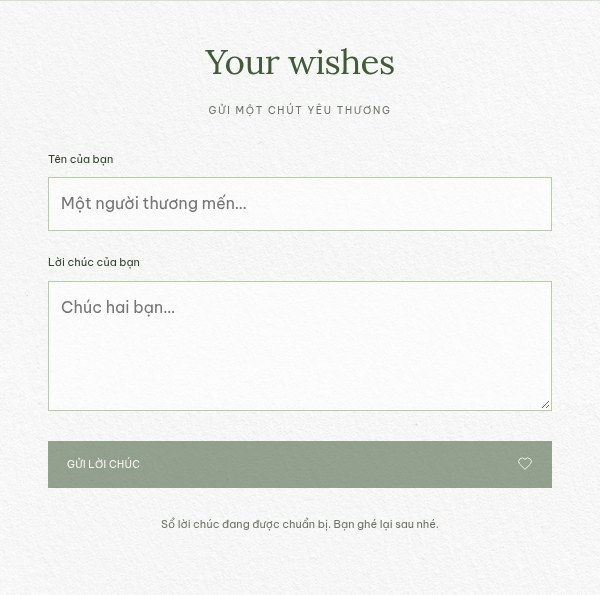
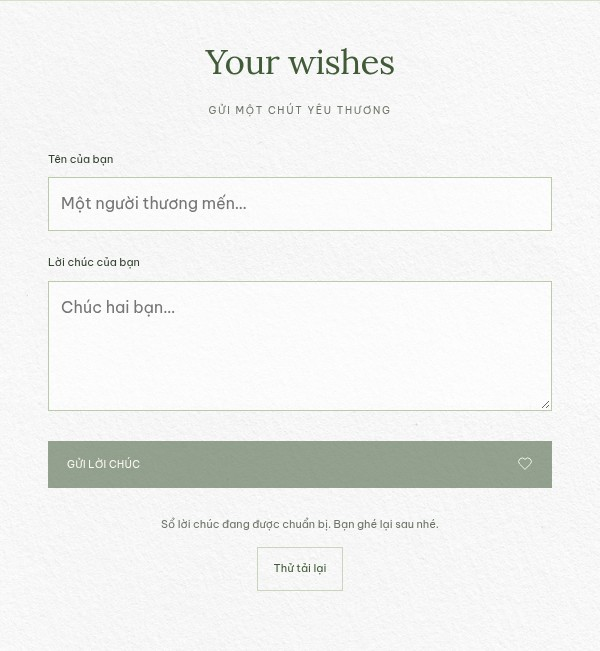
Load production Firebase Web config at build time and handle denied guestbook permissions

diff --git a/tests/guestbook.test.js b/tests/guestbook.test.js
@@ -13,7 +13,7 @@ async function setup(send = async () => {}) {
  const store = { send, subscribe(data, error) { reads++; onData = data; onError = error; return () => { unsubscribed++ } } }
  const controller = initGuestbook({ root: doc, connect: async () => store })
  await controller.ready
- return { dom, doc, controller, data: (...args) => onData(...args), error: () => onError(new Error('offline')), get reads() { return reads }, get unsubscribed() { return unsubscribed } }
+ return { dom, doc, controller, data: (...args) => onData(...args), error: code => onError(Object.assign(new Error('offline'), { code })), get reads() { return reads }, get unsubscribed() { return unsubscribed } }
 }
 function submit(app, name = 'Bạn Lan', message = 'Chúc hai bạn hạnh phúc!') {
  app.doc.querySelector('#wish-name').value = name
@@ -23,8 +23,10 @@ function submit(app, name = 'Bạn Lan', message = 'Chúc hai bạn hạnh phúc
 
 test('Firebase config requires the selected project and rejects demo projects in production', () => {
  assert.equal(readFirebaseConfig({}), null)
- const env = { VITE_FIREBASE_API_KEY: ' key ', VITE_FIREBASE_PROJECT_ID: 'demo-thang-quynh', VITE_FIREBASE_APP_ID: 'app' }
+ const env = { VITE_FIREBASE_API_KEY: ' key ', VITE_FIREBASE_PROJECT_ID: 'demo-thang-quynh', VITE_FIREBASE_APP_ID: 'app', VITE_FIREBASE_STORAGE_BUCKET: 'bucket', VITE_FIREBASE_MESSAGING_SENDER_ID: 'sender' }
  assert.equal(readFirebaseConfig(env).authDomain, 'demo-thang-quynh.firebaseapp.com')
+ assert.equal(readFirebaseConfig(env).storageBucket,'bucket')
+ assert.equal(readFirebaseConfig(env).messagingSenderId,'sender')
  assert.equal(readFirebaseConfig({ ...env, PROD: true }), null)
  assert.equal(readFirebaseConfig({ ...env, VITE_FIREBASE_PROJECT_ID: 'chosen-project', PROD: true }).projectId, 'chosen-project')
 })
@@ -85,4 +87,20 @@ test('a duplicate guest wish is explained without clearing their text', async ()
  assert.match(app.doc.querySelector('#wish-result').textContent, /Bạn đã gửi/)
  assert.equal(app.doc.querySelector('#wish-name').value, 'Bạn Lan')
  app.controller.destroy(); app.dom.window.close()
+})
+
+
+test('denied Firestore rules disable sending until a server-confirmed retry succeeds', async () => {
+ let writes=0
+ const app=await setup(async()=>{writes++})
+ app.error('permission-denied')
+ assert.equal(app.doc.querySelector('#wish-form button').disabled,true)
+ submit(app)
+ assert.equal(writes,0)
+ app.doc.querySelector('#retry-wishes').click()
+ app.data([],{fromCache:true})
+ assert.equal(app.doc.querySelector('#wish-form button').disabled,true)
+ app.data([],{fromCache:false})
+ assert.equal(app.doc.querySelector('#wish-form button').disabled,false)
+ app.controller.destroy();app.dom.window.close()
 })

diff --git a/src/guestbook.js b/src/guestbook.js
@@ -5,7 +5,7 @@ export function initGuestbook({ root = document, connect }) {
  const form = $('#wish-form'), button = form.querySelector('[type=submit]')
  const result = $('#wish-result'), status = $('#wishes-status'), list = $('#wishes'), retry = $('#retry-wishes')
  const label = $('#wish-submit-label')
- let store, unsubscribe, pending = false, destroyed = false, generation = 0
+ let store, unsubscribe, pending = false, permissionsBlocked = false, destroyed = false, generation = 0
  button.disabled = true
 
  function render(wishes) {
@@ -27,11 +27,14 @@ export function initGuestbook({ root = document, connect }) {
   list.setAttribute('aria-busy', 'true')
   unsubscribe = store.subscribe((wishes, { fromCache = false } = {}) => {
    render(wishes)
+   if (!fromCache) { permissionsBlocked = false; button.disabled = pending }
    list.setAttribute('aria-busy', String(fromCache))
    status.textContent = fromCache ? 'Đang kết nối để cập nhật lời chúc…' : wishes.length ? 'Những lời chúc dành cho chúng mình' : 'Hãy là người đầu tiên gửi lời chúc cho chúng mình nhé!'
-  }, () => {
+  }, error => {
    list.setAttribute('aria-busy', 'false')
-   status.textContent = 'Chưa tải được lời chúc. Bạn thử lại nhé.'
+   permissionsBlocked = error.code === 'permission-denied'
+   if (permissionsBlocked) button.disabled = true
+   status.textContent = permissionsBlocked ? 'Sổ lời chúc đang được chuẩn bị. Bạn ghé lại sau nhé.' : 'Chưa tải được lời chúc. Bạn thử lại nhé.'
    retry.hidden = false
   })
  }
@@ -52,7 +55,7 @@ export function initGuestbook({ root = document, connect }) {
  }
  async function submit(event) {
   event.preventDefault()
-  if (!store || pending) return
+  if (!store || pending || permissionsBlocked) return
   let wish
   try { wish = validateWish({ name: $('#wish-name').value, message: $('#wish-message').value }) }
   catch (error) { result.textContent = error.message; return }
@@ -71,7 +74,7 @@ export function initGuestbook({ root = document, connect }) {
   } finally {
    clearTimeout(waiting)
    pending = false
-   button.disabled = false
+   button.disabled = permissionsBlocked
    form.setAttribute('aria-busy', 'false')
    label.textContent = 'GỬI LỜI CHÚC'
   }

diff --git a/src/firebase-wishes.js b/src/firebase-wishes.js
@@ -7,6 +7,8 @@ export function readFirebaseConfig(env = {}) {
   projectId: value('VITE_FIREBASE_PROJECT_ID'),
   appId: value('VITE_FIREBASE_APP_ID'),
   authDomain: value('VITE_FIREBASE_AUTH_DOMAIN'),
+  storageBucket: value('VITE_FIREBASE_STORAGE_BUCKET'),
+  messagingSenderId: value('VITE_FIREBASE_MESSAGING_SENDER_ID'),
  }
  if (!config.apiKey || !config.projectId || !config.appId) return null
  if (env.PROD && config.projectId.startsWith('demo-')) return null

diff --git a/docs/firebase-setup.md b/docs/firebase-setup.md
@@ -1,28 +1,30 @@
 # Kết nối sổ lời chúc Firebase
 
-Phần lời chúc đã chuyển sang Firebase Authentication (Anonymous) và Cloud Firestore. Đã kiểm thử SDK thật với Firebase Emulator: gửi, lưu, cập nhật sang khách thứ hai, tải lại trang, chặn sửa/xoá và kiểm tra dữ liệu. **Chưa cấu hình project production và chưa triển khai rules lên Firebase thật.** Không tự dùng project của mẫu Ngọc–Thuỷ.
+Phần lời chúc đã chuyển sang Firebase Authentication (Anonymous) và Cloud Firestore. Đã kiểm thử SDK thật với Firebase Emulator: gửi, lưu, cập nhật sang khách thứ hai, tải lại trang, chặn sửa/xoá và kiểm tra dữ liệu. **Project production đã được chọn: `thang-quynh`, đầy đủ sáu trường Web config ở `.env.production`.** Anonymous Auth đã được kiểm tra thành công. Firestore hiện trả `PERMISSION_DENIED` cho cả truy vấn công khai và đã xác thực; cần publish rules trước khi khách gửi/đọc lời chúc thật. Không có phiên đăng nhập Firebase quản trị trong môi trường này để tự triển khai rules.
 
-## Cấu hình cần cung cấp
+## Cấu hình build đã áp dụng
 
 Từ Firebase Console → Project settings → Your apps → Web app, lấy `firebaseConfig` của project được chọn. Cần `apiKey`, `projectId`, `appId`; `authDomain` có thể suy ra từ project. Đây là cấu hình Web được Firebase thiết kế để dùng trong trình duyệt, không phải service account hay khoá quản trị.
 
-Ánh xạ vào build:
+Vite tự đọc `.env.production` ở chế độ build production. Cả sáu thông số chỉ nằm trong file cấu hình build; mã trong `src/` chỉ đọc biến môi trường, không hardcode giá trị. Kết nối GitHub hiện không có quyền sửa Actions Secrets/Variables, nên workflow sử dụng file build config này thay vì nhận các biến rỗng từ GitHub Settings.
 
-| Firebase Web config | Biến Vite / GitHub |
+| Firebase Web config | Biến build |
 | --- | --- |
-| apiKey | GitHub Secret `VITE_FIREBASE_API_KEY` |
-| projectId | GitHub Variable `VITE_FIREBASE_PROJECT_ID` |
-| appId | GitHub Variable `VITE_FIREBASE_APP_ID` |
-| authDomain | GitHub Variable `VITE_FIREBASE_AUTH_DOMAIN` (tuỳ chọn) |
+| apiKey | `VITE_FIREBASE_API_KEY` |
+| authDomain | `VITE_FIREBASE_AUTH_DOMAIN` |
+| projectId | `VITE_FIREBASE_PROJECT_ID` |
+| storageBucket | `VITE_FIREBASE_STORAGE_BUCKET` |
+| messagingSenderId | `VITE_FIREBASE_MESSAGING_SENDER_ID` |
+| appId | `VITE_FIREBASE_APP_ID` |
 
-Workflow Pages đã truyền các biến trên vào bước build. Local dùng `.env.local` theo `.env.example`. Không điền service-account JSON, private key hoặc token quản trị vào các biến `VITE_`.
+`.env.production` được version-control có chủ ý vì chứa **Firebase Web config công khai** vốn được nhúng trong JavaScript trình duyệt. Không chứa service account, private key hay token quản trị. File `.env.local` vẫn bị gitignore; có thể dùng cho override tại local. Cấu hình production không tự áp dụng cho Vite development hoặc các bài kiểm thử Emulator.
 
 Trong project được chọn:
 
 1. Tạo Cloud Firestore database `(default)` nếu chưa có.
 2. Bật Authentication → Sign-in method → Anonymous.
 3. Áp dụng match rule trong [firestore.rules](../firestore.rules).
-4. Điền Web config, build/deploy lại website.
+4. Web config đã sẵn sàng; sau khi publish rules, khách có thể bấm Thử tải lại hoặc tải lại trang để kết nối.
 
 **Nếu dùng chung project với thiệp khác:** gộp match `/weddings/thang-quynh-20261129/wishes/{guestId}` vào rules hiện có và giữ nguyên các match của thiệp cũ. Không thay toàn bộ rules của project chung bằng file dành riêng của repo này. Cần quyền Firebase Console/CLI của chủ project để triển khai rules; quyền push GitHub không cấp quyền Firebase.
 
@@ -47,3 +49,10 @@ npm run test:ui
 ```
 
 `test:firebase` cần Java 21; tự khởi động Auth/Firestore Emulator với project `demo-thang-quynh`. Gồm 5 bài rules và một luồng trình duyệt thật dùng hai browser context độc lập. Không truy cập hoặc ghi dữ liệu vào Firebase production. GitHub Actions chạy cả bộ kiểm thử trước khi triển khai Pages.
+
+## Kiểm tra project thật ngày 30/10/2026
+
+- Anonymous Auth: HTTP 200, tạo được phiên khách; tài khoản QA tạm được dọn sau kiểm tra, không viết lời chúc thử vào production.
+- Truy vấn 50 lời chúc trong collection đúng namespace: HTTP 403 `PERMISSION_DENIED / Missing or insufficient permissions`, ở cả trạng thái public và đã xác thực.
+- Cần chủ project mở [Firebase Console của thang-quynh](https://console.firebase.google.com/project/thang-quynh/firestore), tab Rules, áp dụng [firestore.rules](../firestore.rules) rồi Publish. Sau đó kiểm tra lại quyền đọc/gửi từ website.
+- Khi Firestore từ chối quyền, trang khóa nút gửi và giữ khả năng Thử tải lại. Không báo đã lưu thành công khi server chưa chấp nhận.

diff --git a/README.md b/README.md
@@ -45,12 +45,12 @@ Ngày, địa điểm và danh sách ảnh ở `src/content.js`. Tên, bố mẹ
 - Địa điểm: **Nhà văn hoá thôn 3 Công Đình - Phù Đổng - Hà Nội**. [Bản đồ](https://maps.app.goo.gl/ndNBkdF58QADRr4o6?g_st=ic). File lịch tải về dùng cùng địa điểm.
 - Lịch trình: **18:00 đón khách / 18:30 lễ thành hôn / 19:00 dùng tiệc**. Giờ mời trên thiệp, đếm ngược và file lịch là **18:00** theo cập nhật ngày 29/10/2026.
 - Đã bỏ phần xác nhận tham gia (RSVP). Nút nổi đưa khách tới phần gửi lời chúc.
-- Lời chúc dùng Firebase Auth Anonymous + Firestore, cập nhật trực tiếp cho các khách. Đã kiểm thử bằng Firebase Emulator. **Production đang chờ Web config, bật Anonymous Auth và áp dụng rules của project được chọn**; khi thiếu cấu hình, không nhận gửi và không báo lưu giả. Xem [hướng dẫn Firebase](docs/firebase-setup.md).
+- Lời chúc dùng Firebase Auth Anonymous + Firestore, cập nhật trực tiếp cho các khách. Đã kiểm thử bằng Firebase Emulator. **Production đã có Web config của project `thang-quynh` trong `.env.production`; Anonymous Auth đã hoạt động, đang chờ publish Firestore rules để đọc/gửi thật**; khi thiếu cấu hình hoặc bị Firestore từ chối quyền, không nhận gửi và không báo lưu giả. Xem [hướng dẫn Firebase](docs/firebase-setup.md).
 - Mừng cưới nhà trai: **Techcombank — 1905 0359 9540 16**. QR VietQR được sinh trong dự án, không đặt sẵn số tiền hay lời nhắn. Có sao chép số tài khoản và tải mã PNG. Chưa có thông tin nhà gái nên không hiển thị tài khoản nhà gái.
 
 ## Kiểm chứng và triển khai
 
-- **23 bài logic/DOM**: múi giờ, đếm ngược, lịch, ICS, lưu trữ bị chặn, album, trạng thái gửi/tải lời chúc an toàn, gate chống mở lặp và reduced motion.
+- **24 bài logic/DOM**: múi giờ, đếm ngược, lịch, ICS, lưu trữ bị chặn, album, trạng thái gửi/tải lời chúc an toàn, gate chống mở lặp và reduced motion.
 - **20 bài Chromium**: bảy viewport từ 320px đến 1920px, phong bì/mở thiệp, trang 1–2 và loại bỏ Our Story, album, phím điều hướng, tải lịch, nhạc, loại bỏ RSVP, ảnh số 8 trước lịch và lời chúc chưa cấu hình.
 - **5 bài Firestore Rules + 1 luồng Firebase trong Chromium**: xác thực, quyền đọc/ghi, dữ liệu hợp lệ, namespace riêng; gửi từ một khách, khách thứ hai nhận trực tiếp và vẫn thấy khi tải lại.
 - Xem [biên bản và ảnh giao diện](docs/visual-review.md).
@@ -90,4 +90,8 @@ Album có một ảnh dọc lớn tỉ lệ 2:3, hiển thị trọn ảnh với
 
 ## Cập nhật ngày 30/10/2026
 
-Ảnh ngang số 8 nằm ngay trước phần lịch Save the date (sau Timeline). Album vẫn dọc 2:3, thứ tự mới: 4 → 11 → 17 → 3 → 6 → 10 → 12. Không còn form xác nhận tham gia. Sổ lời chúc dùng collection Firebase riêng; xem [cấu hình và quy tắc dữ liệu](docs/firebase-setup.md). Tổng 49 bài kiểm thử đã đạt tại local: 23 unit/DOM, 20 UI, 5 rules, 1 UI Firebase.
+Ảnh ngang số 8 nằm ngay trước phần lịch Save the date (sau Timeline). Album vẫn dọc 2:3, thứ tự mới: 4 → 11 → 17 → 3 → 6 → 10 → 12. Không còn form xác nhận tham gia. Sổ lời chúc dùng collection Firebase riêng; xem [cấu hình và quy tắc dữ liệu](docs/firebase-setup.md). Tổng 50 bài kiểm thử: 24 unit/DOM, 20 UI, 5 rules, 1 UI Firebase.
+
+## Firebase production build
+
+Cả sáu trường Firebase Web config được cung cấp ngày 30/10 nằm trong `.env.production`, Vite đọc khi `npm run build`. Mã ứng dụng lấy giá trị từ `import.meta.env`; không có giá trị Firebase được hardcode trong `src/`. Auth Anonymous của project `thang-quynh` đã hoạt động. Firestore vẫn trả permission-denied; cần chủ project Publish rules đã chuẩn bị, xem [hướng dẫn](docs/firebase-setup.md).

diff --git a/docs/visual-review.md b/docs/visual-review.md
@@ -13,7 +13,7 @@ Tham chiếu bố cục: https://jmiiwedding.com/chinhlinhh. Tông trắng xanh 
 
 ## Kiểm thử
 
-- **23/23 logic/DOM** đạt.
+- **24/24 logic/DOM** đạt.
 - **20/20 Chromium** đạt, gồm bảy viewport: 320×740, 375×812, 390×844, 430×932, 768×1024, 1440×900, 1920×1080.
 - Kiểm tra khung đầu không tràn ngang, tên/ngày/nút tiếp trong viewport, chặn nội dung trước khi mở, mở một lần, Escape không bỏ qua gate, tải lại quay về màn mở, nhạc, lịch, album, phần lời chúc và việc bỏ RSVP.
 - Bài riêng xác nhận các lớp phong bì xanh và hoa trắng lá xanh, dải hai ảnh, trang thứ hai và không có Our Story.
@@ -112,8 +112,12 @@ Kiểm tra bổ sung khung giấy ren và nội dung không tràn ở 320, 390, 
 - Bỏ toàn bộ phần xác nhận tham gia và đường dẫn cũ; nút nổi đổi thành Gửi lời chúc.
 - Bỏ lời chúc demo và lưu localStorage. Firebase Anonymous Auth + Firestore dùng namespace riêng, transaction xác nhận server trước khi báo thành công; onSnapshot hiển thị các lời chúc mới nhất cho mọi khách.
 - **5/5 rules và 1/1 UI Firebase** đạt bằng Emulator/SDK thật. Hai browser context độc lập đã gửi/nhận dữ liệu và tải lại vẫn thấy; dữ liệu HTML được render như văn bản. Đây là môi trường kiểm thử, không phải Firebase production.
-- **Production chưa được cấu hình**: chờ lựa chọn project/Web config, bật Anonymous Auth và áp dụng rules. Trang thật không nhận gửi khi thiếu cấu hình. Chi tiết ở [firebase-setup.md](firebase-setup.md).
+- **Production đã có build config project `thang-quynh`**; Anonymous Auth thành công. Firestore đang chặn quyền đọc/gửi và cần chủ project publish rules. Trang thật không nhận gửi khi server chưa cấp quyền. Chi tiết ở [firebase-setup.md](firebase-setup.md).
 
 ![Ảnh số 8 trước Save the date](screenshots/mobile-before-save-date.jpg)
 
 ![Album đã đổi thứ tự](screenshots/mobile-album.jpg)
+
+## Kết nối build production
+
+Sáu trường Firebase Web config ở `.env.production`; mã ứng dụng chỉ đọc biến build. Đã bổ sung kiểm tra hai trường storageBucket/messagingSenderId và trạng thái Firestore từ chối quyền: gửi bị khóa đến khi Thử tải lại nhận được dữ liệu do server xác nhận. Chẩn đoán project thật cho thấy Anonymous Auth hoạt động, Firestore trả permission-denied. Không tạo lời chúc giả trên production.
